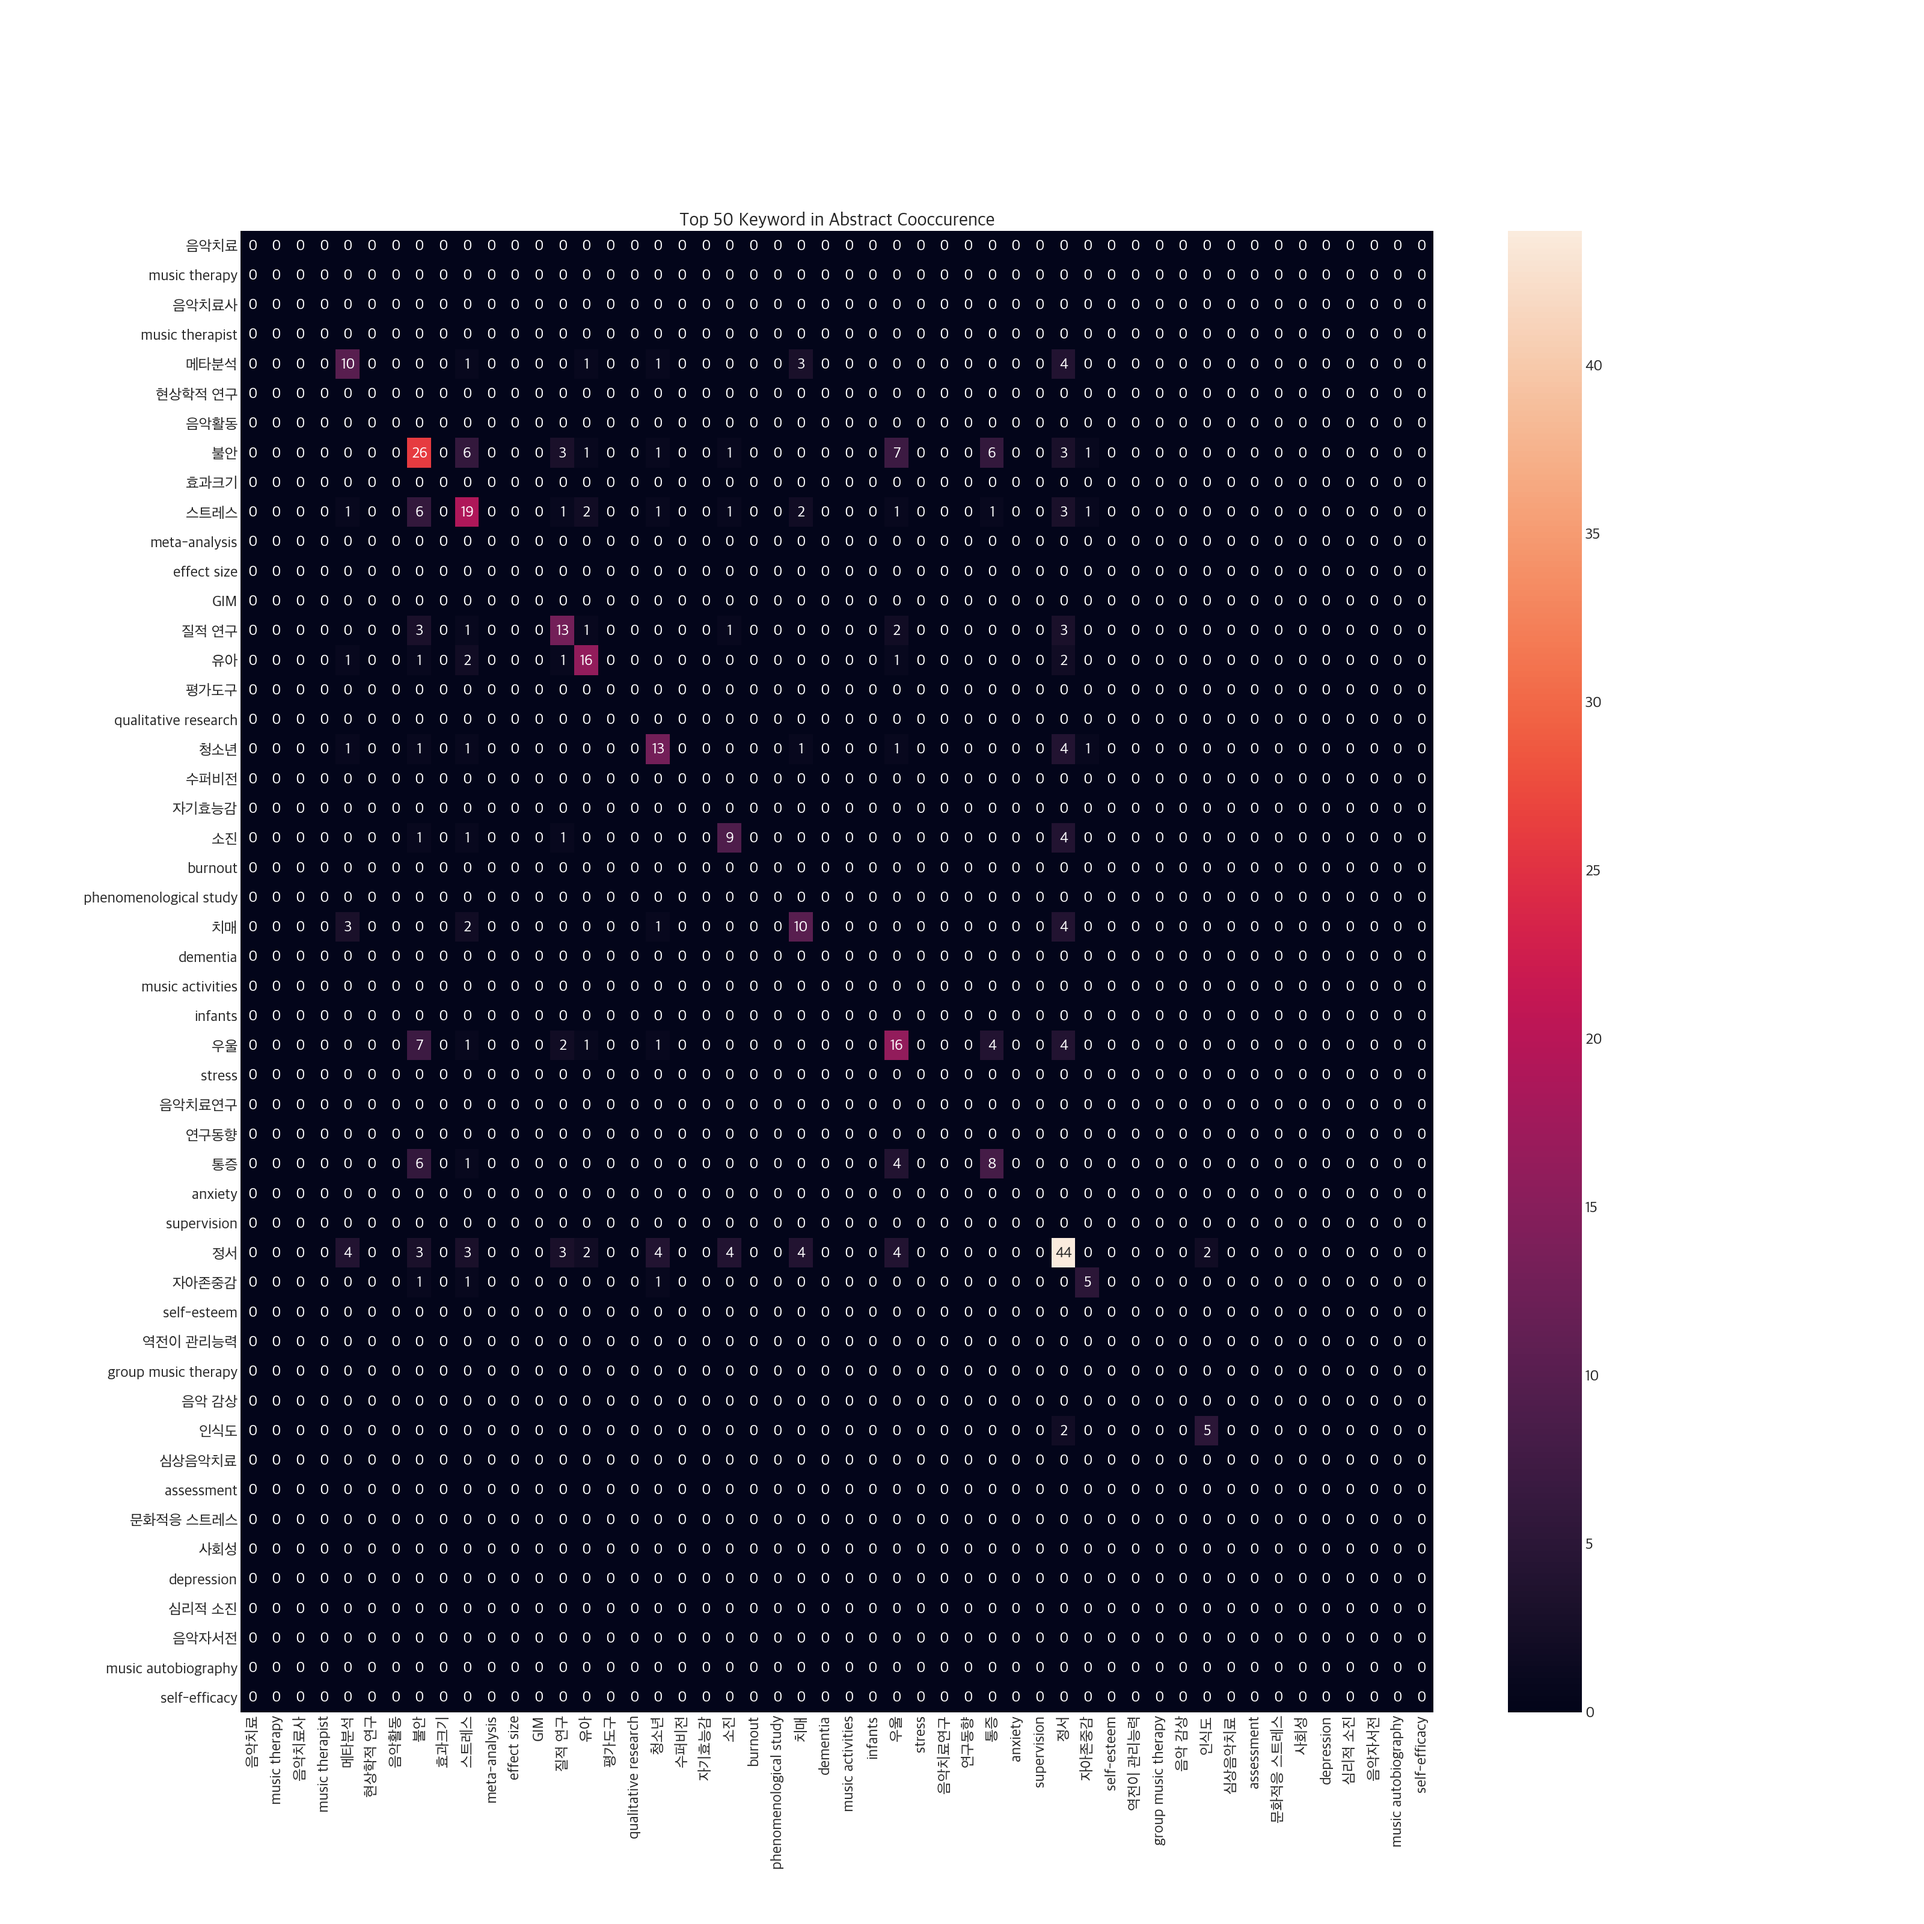
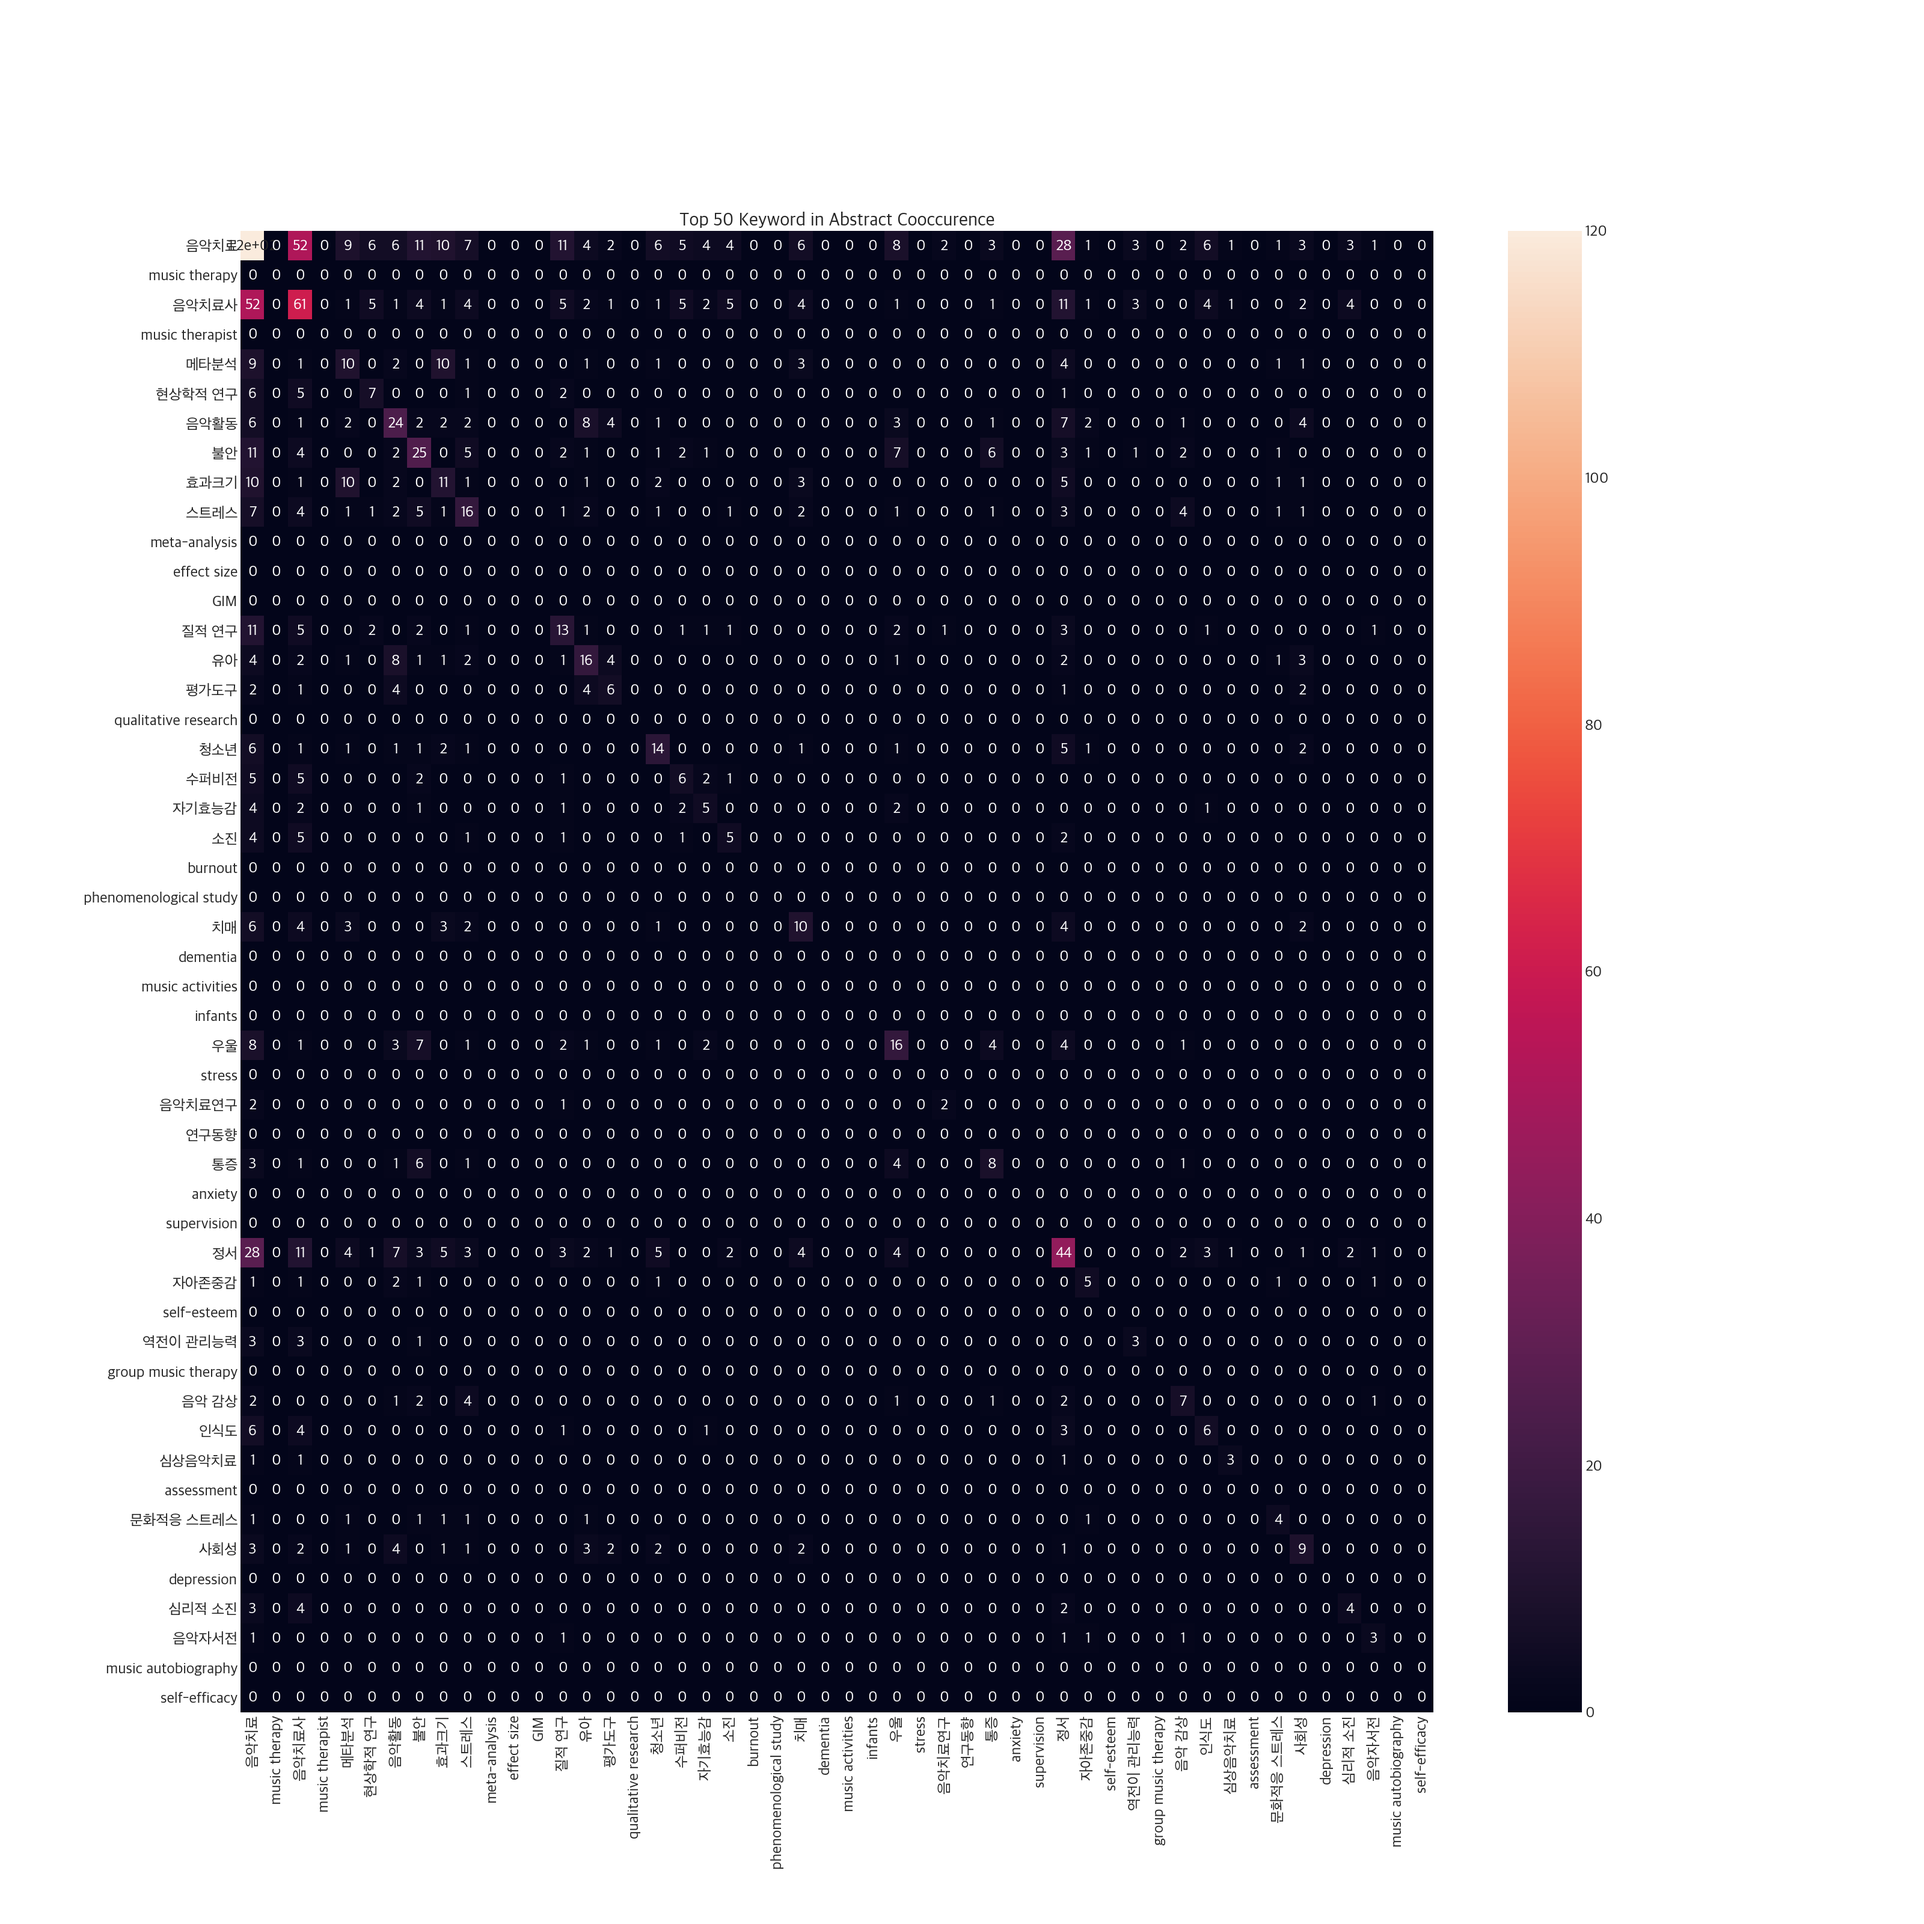
Use User Dictionary. Remove 1 length noun

diff --git a/nlp.py b/nlp.py
@@ -1,7 +1,7 @@
 #-*- coding: utf-8 -*-
 """
 Author: DHSong
-Date: 2020-06-22 (Last Modified)
+Date: 2020-06-26 (Last Modified)
 Objective: EDA. 
 """
 
@@ -28,6 +28,8 @@ class ArticleNLP:
 
         plt.rcParams['font.family'] = font_family
         plt.rcParams['font.size'] = 18
+
+        self.komoran = Komoran(userdic='./data/user_dic.tsv')
 
     
     def count_keyword(self):
@@ -107,10 +109,10 @@ class ArticleNLP:
         plt.savefig('./figure/keyword_cooccurence.png')
 
     def count_abstract(self):
-        komoran = Komoran()
         nouns = list()
         for abstract in self.dataframe.abstract:
-            nouns += komoran.nouns(abstract)
+            for n in self.komoran.nouns(abstract):
+                nouns.append(n) if len(n) > 1 else None
         
         counter = Counter(nouns)
         return counter 
@@ -136,8 +138,6 @@ class ArticleNLP:
 
         words = [k for k, _ in counter.most_common(n)]
 
-        komoran = Komoran()
-
         years = range(self.dataframe.year.min(), self.dataframe.year.max() + 1)
         df = pd.DataFrame(index=words, columns=years)
         df = df.fillna(0)
@@ -145,7 +145,7 @@ class ArticleNLP:
         for idx in tqdm(range(len(self.dataframe))):
             y = self.dataframe.loc[idx, 'year']
             abstracts = self.dataframe.loc[idx, 'abstract']
-            for noun in komoran.nouns(abstracts):
+            for noun in self.komoran.nouns(abstracts):
                 if noun in words:
                     df.loc[noun, y] = df.loc[noun, y] + 1
         
@@ -162,14 +162,12 @@ class ArticleNLP:
 
         words = [k for k, _ in counter.most_common(n)]
         
-        komoran = Komoran()
-
         df = pd.DataFrame(index=words, columns=words)
         df = df.fillna(0)
 
         for idx in tqdm(range(len(self.dataframe))):
             abstracts = self.dataframe.loc[idx, 'abstract']
-            nouns = komoran.nouns(abstracts)
+            nouns = self.komoran.nouns(abstracts)
             for src in words:
                 for dst in words:
                     if src in nouns and dst in nouns:
